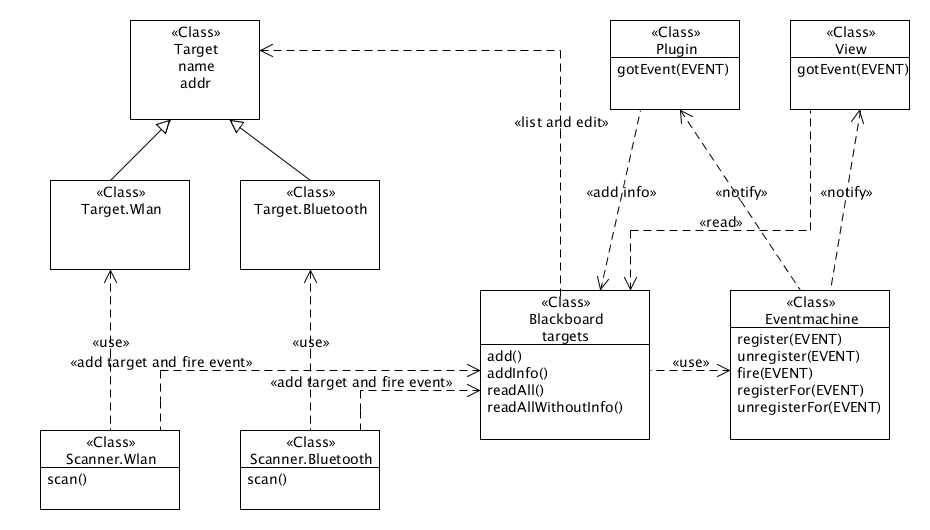
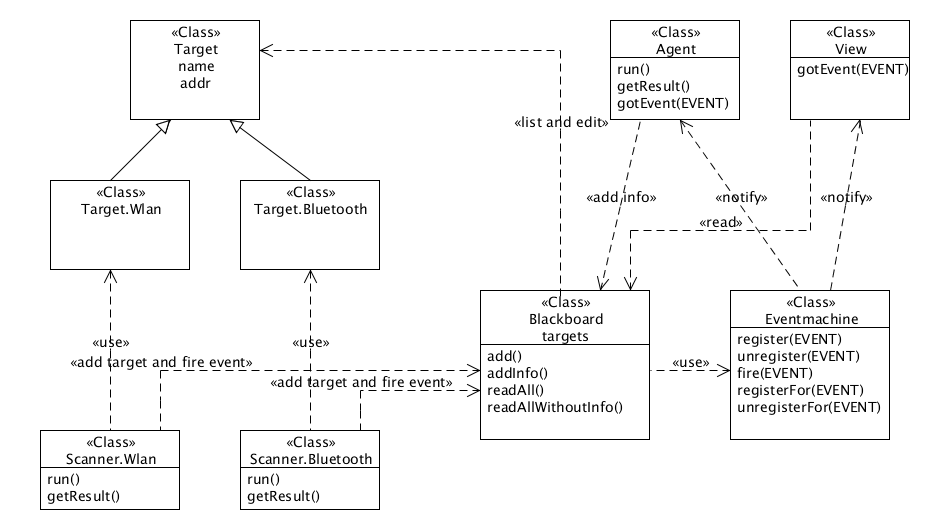
refactoring + exceptions

diff --git a/src/airxploit/discovery/sdp.py b/src/airxploit/discovery/sdp.py
@@ -20,8 +20,12 @@ class SdpBrowser(object):
         self.__blackboard = blackboard
         self.__blackboard.registerEvent(SdpBrowser.EVENT)
         self.__blackboard.registerForEvent(BluetoothScanner.EVENT, self)
+        self.__result = []
+        
+    def getResult(self):
+        return self.__result
     
-    def gotEvent(self, event):        
+    def run(self):
         for target in self.__blackboard.readAllWithoutInfo("sdp"):
             try:
                 logging.debug("Executing SDP browse for target " + target.addr)
@@ -34,6 +38,7 @@ class SdpBrowser(object):
                     services.append(service)
                 
                 if services.count > 0:    
+                    self.__result = services
                     self.__blackboard.addInfo(target, "sdp", services)
                     self.__blackboard.fireEvent(SdpBrowser.EVENT)
                     #sock = lightblue.socket()
@@ -42,7 +47,11 @@ class SdpBrowser(object):
 
             except IOError, e:
                 pass
-            
+        
+    
+    def gotEvent(self, event):        
+        self.run()
+        
 class SdpService(object):
     
     def __init__(self):

diff --git a/src/airxploit/scanner/wlan.py b/src/airxploit/scanner/wlan.py
@@ -9,6 +9,8 @@ import sys
 from pythonwifi.iwlibs import Wireless
 import airxploit.core
 import logging
+from airxploit.fuckup.permission_denied import PermissionDenied
+from airxploit.fuckup.big_shit import BigShit
 
 class WlanScanner(object):
     '''
@@ -24,10 +26,10 @@ class WlanScanner(object):
         self.__blackboard = blackboard
         self.__blackboard.registerEvent(WlanScanner.EVENT)
     
-    def getTargets(self):
+    def getResult(self):
         return self.__targets.values()
     
-    def scan(self):
+    def run(self):
         current_targets = {}
         logging.debug("Scanning for wlan devices")
         
@@ -36,9 +38,9 @@ class WlanScanner(object):
             results = wifi.scan()
         except IOError, e:
             if e.id != errno.EPERM:
-                print "Interface " + wifi.ifname + " doesnt support scanning"
+                raise BigShit("Interface " + wifi.ifname + " doesnt support scanning")
             else:
-                print "Permission denied"
+                raise PermissionDenied("Cannot scan for wifi :(")
                 sys.exit(1)
         
         if len(results) > 0:

diff --git a/src/airxploit/scanner/bluetooth.py b/src/airxploit/scanner/bluetooth.py
@@ -22,10 +22,10 @@ class BluetoothScanner(object):
         self.__blackboard = blackboard
         self.__blackboard.registerEvent(BluetoothScanner.EVENT)
         
-    def getTargets(self):
+    def getResult(self):
         return self.__targets.values()
     
-    def scan(self):
+    def run(self):
         current_targets = {}
         logging.debug("Scanning for bluetooth devices")
         
@@ -37,10 +37,8 @@ class BluetoothScanner(object):
                 current_targets[target.addr] = target
                 logging.debug("Found bluetooth device " + device[0] + " " + device[1])
 
-        except IOError, e:
-            # TODO: throw exception
-            print "Bluetooth scanning failed " + e.message
-            sys.exit(1)
+        except IOError:
+            pass
         
         got_new_targets = False
         

diff --git a/src/airxploit/fuckup/big_shit.py b/src/airxploit/fuckup/big_shit.py
@@ -1,0 +1,18 @@
+'''
+Created on 08.08.2010
+
+@author: basti
+'''
+
+class BigShit(Exception):
+    '''
+    Some big shit happened and if you catch this you should kill yourself
+    or at least your running code fragment ;)
+    '''
+
+
+    def __init__(self, what):
+        self.__msg = "Big shit happened: " + what
+        
+    def __str__(self):
+        return self.__msg

diff --git a/src/airxploit/view/console.py b/src/airxploit/view/console.py
@@ -33,7 +33,7 @@ d8P' ?88    88P  88P'  `     `?8bd8P'    `?88'  ?88?88  d8P' ?88  88P  88P
                                           ?8P                                        
         """
     
-    def scan(self):
+    def run(self):
         print "\r" * 16
         print "\n<<< Scanning..."
         self.__controller.scan()

diff --git a/src/airxploit/fuckup/not_a_target.py b/src/airxploit/fuckup/not_a_target.py
@@ -1,0 +1,12 @@
+'''
+Created on 08.08.2010
+
+@author: basti
+'''
+
+class NotATarget(Exception):
+    def __init__(self, what):
+        self.__msg = "Not an airxploit.core.target.Target object: " + str(what)
+        
+    def __str__(self):
+        return self.__msg

diff --git a/src/airxploit/core/aircontroller.py b/src/airxploit/core/aircontroller.py
@@ -27,8 +27,8 @@ class AirController(object):
 
     
     def scan(self):
-        self.__bt.scan()
-        self.__wlan.scan()
+        self.__bt.run()
+        self.__wlan.run()
         
     def getWlanTargets(self):
         wlanTargets = []

diff --git a/src/airxploit/fuckup/permission_denied.py b/src/airxploit/fuckup/permission_denied.py
@@ -1,0 +1,12 @@
+'''
+Created on 08.08.2010
+
+@author: basti
+'''
+
+class PermissionDenied(Exception):
+    def __init__(self, what):
+        self.__msg = "Permission denied: " + what
+    
+    def __str__(self):
+        return self.__msg

diff --git a/src/airxploit/fuckup/__init__.py b/src/airxploit/fuckup/__init__.py
@@ -1,0 +1,1 @@
+import not_a_target
